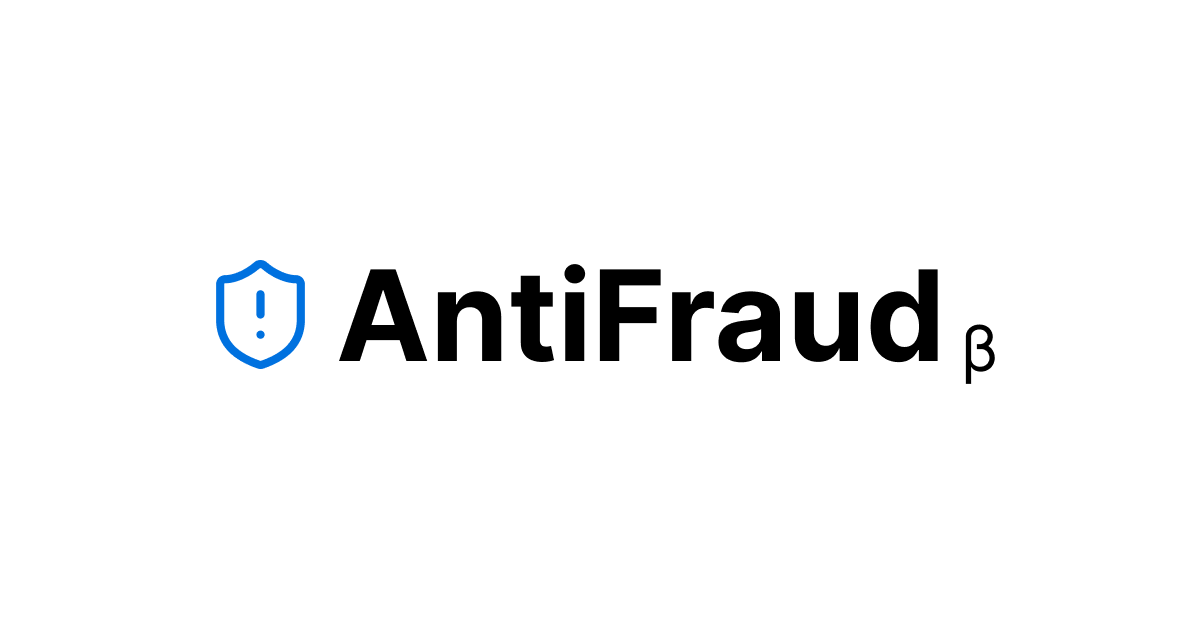
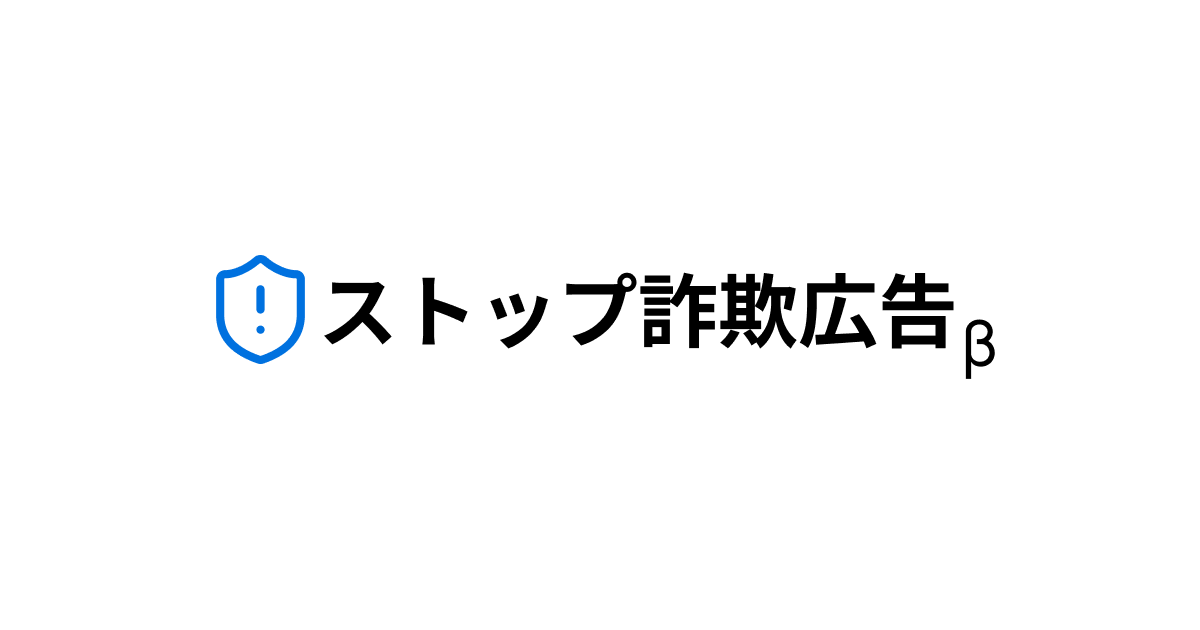
feat: Centralize site metadata and branding strings into `lib/site.ts` for consistent application-wide use.

Changed region(s): [[0.185, 0.4222, 0.8325, 0.6032], [0.185, 0.3921, 0.2467, 0.4524]]

diff --git a/app/layout.tsx b/app/layout.tsx
@@ -8,6 +8,7 @@ import { SiteHeader } from "@/components/site-header";
 import { ThemeProvider } from "@/components/theme-provider";
 import { Skeleton } from "@/components/ui/skeleton";
 import { Toaster } from "@/components/ui/sonner";
+import { SITE_DESCRIPTION, SITE_NAME, SITE_TITLE } from "@/lib/site";
 import { getSiteUrl } from "@/lib/site-url";
 
 const siteUrl = getSiteUrl();
@@ -27,30 +28,27 @@ const notoSansJP = Noto_Sans_JP({
 
 export const metadata: Metadata = {
 	metadataBase: new URL(siteUrl),
-	title: "AntiFraud - ネット広告詐欺通報・検索プラットフォーム",
-	description:
-		"SNSやWebサイトの広告詐欺情報をみんなの力で集約し、共有・検索できるプラットフォーム。",
+	title: SITE_TITLE,
+	description: SITE_DESCRIPTION,
 	openGraph: {
-		title: "AntiFraud - ネット広告詐欺通報・検索プラットフォーム",
-		description:
-			"SNSやWebサイトの広告詐欺情報をみんなの力で集約し、共有・検索できるプラットフォーム。",
+		title: SITE_TITLE,
+		description: SITE_DESCRIPTION,
 		type: "website",
 		locale: "ja_JP",
-		siteName: "AntiFraud",
+		siteName: SITE_NAME,
 		images: [
 			{
 				url: "/ogp.png",
 				width: 1200,
 				height: 630,
-				alt: "AntiFraud - ネット広告詐欺通報・検索プラットフォーム",
+				alt: SITE_TITLE,
 			},
 		],
 	},
 	twitter: {
 		card: "summary_large_image",
-		title: "AntiFraud - ネット広告詐欺通報・検索プラットフォーム",
-		description:
-			"SNSやWebサイトの広告詐欺情報をみんなの力で集約し、共有・検索できるプラットフォーム。",
+		title: SITE_TITLE,
+		description: SITE_DESCRIPTION,
 		images: ["/ogp.png"],
 	},
 };

diff --git a/app/reports/[id]/page.tsx b/app/reports/[id]/page.tsx
@@ -20,6 +20,7 @@ import {
 } from "@/lib/report-metadata";
 import { getSafeReportImageProxyPath } from "@/lib/report-image-delivery";
 import { maskReportUrl } from "@/lib/report-url";
+import { SITE_NAME } from "@/lib/site";
 import { getSiteUrl } from "@/lib/site-url";
 
 async function getReportById(id: string) {
@@ -84,7 +85,7 @@ function truncateText(text: string, maxLength: number) {
 }
 
 function buildReportMetadataTitle(report: ReportDetail) {
-	return `【注意喚起】${report.title?.trim() || maskReportUrl(report.url)} | AntiFraud`;
+	return `【注意喚起】${report.title?.trim() || maskReportUrl(report.url)} | ${SITE_NAME}`;
 }
 
 function buildReportMetadataDescription(report: ReportDetail) {
@@ -118,7 +119,7 @@ export async function generateMetadata({
 
 	if (!report) {
 		return {
-			title: "通報が見つかりません | AntiFraud",
+			title: `通報が見つかりません | ${SITE_NAME}`,
 			description: "指定された通報は見つかりませんでした。",
 			robots: {
 				index: false,
@@ -145,11 +146,11 @@ export async function generateMetadata({
 			url: pageUrl,
 			type: "article",
 			locale: "ja_JP",
-			siteName: "AntiFraud",
+			siteName: SITE_NAME,
 			images: [
 				{
 					url: imageUrl,
-					alt: report.title?.trim() || "AntiFraud 通報詳細",
+					alt: report.title?.trim() || `${SITE_NAME} 通報詳細`,
 				},
 			],
 		},

diff --git a/app/terms/page.tsx b/app/terms/page.tsx
@@ -1,18 +1,18 @@
 import type { Metadata } from "next";
 
 import { Card, CardContent, CardHeader, CardTitle } from "@/components/ui/card";
+import { SITE_NAME } from "@/lib/site";
 
 export const metadata: Metadata = {
-	title: "利用規約 | AntiFraud",
-	description:
-		"AntiFraud（ネット詐欺通報・検索プラットフォーム）の利用規約です。",
+	title: `利用規約 | ${SITE_NAME}`,
+	description: `${SITE_NAME}（ネット詐欺通報・検索プラットフォーム）の利用規約です。`,
 };
 
 const TERMS_SECTIONS = [
 	{
 		title: "第1条（適用）",
 		paragraphs: [
-			"本規約は、AntiFraud（以下「本サービス」）の提供条件および利用者と運営者との間の権利義務関係を定めるものです。",
+			`本規約は、${SITE_NAME}（以下「本サービス」）の提供条件および利用者と運営者との間の権利義務関係を定めるものです。`,
 			"利用者は、本規約に同意したうえで本サービスを利用するものとします。",
 		],
 	},
@@ -111,7 +111,7 @@ export default function TermsPage() {
 
 			<Card>
 				<CardHeader>
-					<CardTitle>AntiFraud 利用規約</CardTitle>
+					<CardTitle>{SITE_NAME} 利用規約</CardTitle>
 				</CardHeader>
 				<CardContent className="space-y-6 text-sm leading-7 text-muted-foreground">
 					{TERMS_SECTIONS.map((section) => (

diff --git a/components/site-introduction-modal.tsx b/components/site-introduction-modal.tsx
@@ -10,6 +10,7 @@ import {
 	DialogHeader,
 	DialogTitle,
 } from "@/components/ui/dialog";
+import { SITE_NAME } from "@/lib/site";
 
 export const OPEN_SITE_INTRODUCTION_MODAL_EVENT =
 	"open-site-introduction-modal";
@@ -39,7 +40,7 @@ export function SiteIntroductionModal() {
 		<Dialog open={open} onOpenChange={setOpen}>
 			<DialogContent className="max-h-[calc(100dvh-2rem)] overflow-y-auto p-4 sm:max-w-xl sm:p-6">
 				<DialogHeader className="text-center">
-					<DialogTitle className="text-center">AntiFraudについて</DialogTitle>
+					<DialogTitle className="text-center">{SITE_NAME}について</DialogTitle>
 				</DialogHeader>
 
 				<ul className="list-disc space-y-2 pl-5 text-sm leading-relaxed text-muted-foreground">

diff --git a/app/privacy/page.tsx b/app/privacy/page.tsx
@@ -2,11 +2,11 @@ import type { Metadata } from "next";
 import type { ReactNode } from "react";
 
 import { Card, CardContent, CardHeader, CardTitle } from "@/components/ui/card";
+import { SITE_NAME } from "@/lib/site";
 
 export const metadata: Metadata = {
-	title: "プライバシーポリシー | AntiFraud",
-	description:
-		"AntiFraud（ネット詐欺通報・検索プラットフォーム）のプライバシーポリシーです。",
+	title: `プライバシーポリシー | ${SITE_NAME}`,
+	description: `${SITE_NAME}（ネット詐欺通報・検索プラットフォーム）のプライバシーポリシーです。`,
 };
 
 type PrivacySection = {

diff --git a/lib/swagger/openapi.ts b/lib/swagger/openapi.ts
@@ -1,3 +1,5 @@
+import { SITE_API_TITLE, SITE_NAME } from "@/lib/site";
+
 type OpenApiDocument = {
 	openapi: string;
 	info: {
@@ -32,10 +34,9 @@ export function createOpenApiDocument(origin: string): OpenApiDocument {
 	return {
 		openapi: "3.0.3",
 		info: {
-			title: "AntiFraud API",
+			title: SITE_API_TITLE,
 			version: "1.0.0",
-			description:
-				"AntiFraud の公開 API 仕様です。実装は Next.js App Router の Route Handler に対応しています。",
+			description: `${SITE_NAME} の公開 API 仕様です。実装は Next.js App Router の Route Handler に対応しています。`,
 		},
 		servers: [
 			{

diff --git a/app/api-docs/route.ts b/app/api-docs/route.ts
@@ -2,6 +2,7 @@ import {
 	createSwaggerUnavailableResponse,
 	isSwaggerPubliclyAccessible,
 } from "@/lib/swagger/access";
+import { SITE_API_TITLE } from "@/lib/site";
 
 const SWAGGER_UI_CSS_URL = "https://unpkg.com/swagger-ui-dist@5/swagger-ui.css";
 const SWAGGER_UI_BUNDLE_URL =
@@ -17,7 +18,7 @@ function renderSwaggerHtml(openApiUrl: string): string {
 <head>
 	<meta charset="UTF-8" />
 	<meta name="viewport" content="width=device-width, initial-scale=1.0" />
-	<title>AntiFraud API Docs</title>
+	<title>${SITE_API_TITLE} Docs</title>
 	<link rel="stylesheet" href="${SWAGGER_UI_CSS_URL}" />
 	<style>
 		html, body {

diff --git a/components/site-header.tsx b/components/site-header.tsx
@@ -17,6 +17,7 @@ import {
 	SheetTitle,
 	SheetTrigger,
 } from "@/components/ui/sheet";
+import { SITE_NAME } from "@/lib/site";
 import { cn } from "@/lib/utils";
 
 const NAV_ITEMS = [
@@ -54,7 +55,7 @@ export function SiteHeader() {
 					<Link href="/" className="flex items-center space-x-2">
 						<ShieldAlert className="h-6 w-6 text-primary" />
 						<span className="inline-flex items-end gap-1 font-bold text-xl tracking-tight">
-							<span>AntiFraud</span>
+							<span>{SITE_NAME}</span>
 							<span className="text-[0.65em] font-semibold leading-none text-muted-foreground">
 								β
 							</span>

diff --git a/components/site-footer.tsx b/components/site-footer.tsx
@@ -1,5 +1,6 @@
 import { ShieldAlert } from "lucide-react";
 import Link from "next/link";
+import { SITE_NAME } from "@/lib/site";
 
 export function SiteFooter() {
 	return (
@@ -10,7 +11,7 @@ export function SiteFooter() {
 						<div className="flex items-center space-x-2">
 							<ShieldAlert className="h-6 w-6 text-primary" />
 							<span className="font-bold text-xl tracking-tight">
-								AntiFraud
+								{SITE_NAME}
 							</span>
 						</div>
 						<p className="text-sm text-muted-foreground max-w-xs">

diff --git a/lib/site.ts b/lib/site.ts
@@ -1,0 +1,8 @@
+export const SITE_NAME = "ストップ詐欺広告";
+
+export const SITE_DESCRIPTION =
+	"SNSやWebサイトの広告詐欺情報をみんなの力で集約し、共有・検索できるプラットフォーム。";
+
+export const SITE_TITLE = `${SITE_NAME} - ネット広告詐欺通報・検索プラットフォーム`;
+
+export const SITE_API_TITLE = `${SITE_NAME} API`;
